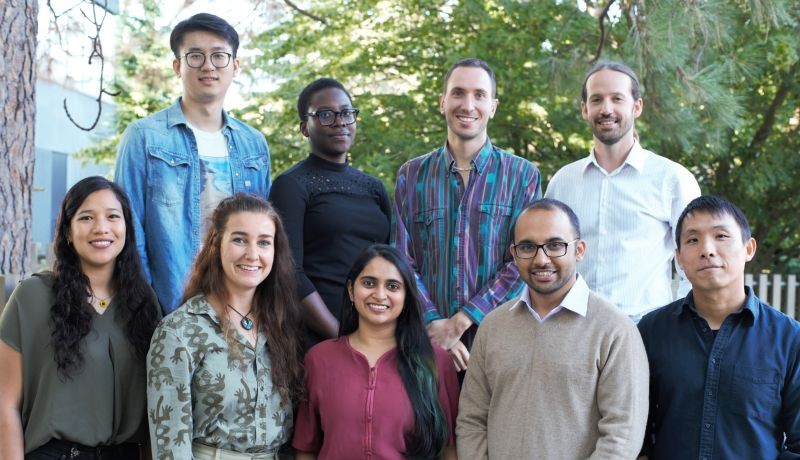
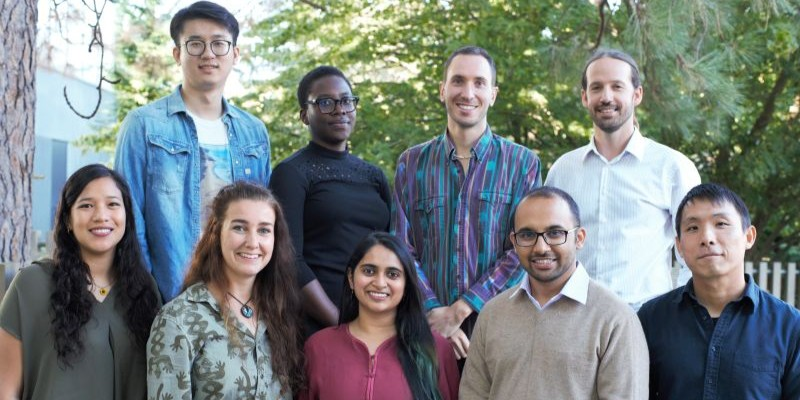
chaned images

diff --git a/assets/css/main.scss b/assets/css/main.scss
@@ -43,7 +43,7 @@
 /* Uniform slider image sizing */
 .swiper-slide img {
   width: 100%;
-  height: 375px;      /* adjust height as needed */
+  height: 400px;      /* adjust height as needed */
   object-fit: cover;  /* crops to fill without distortion */
 }
 
